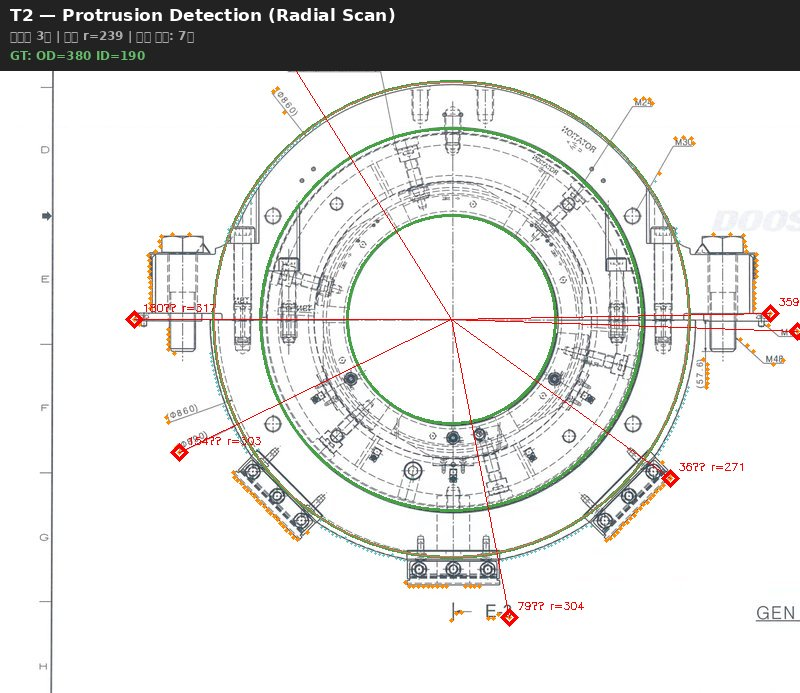
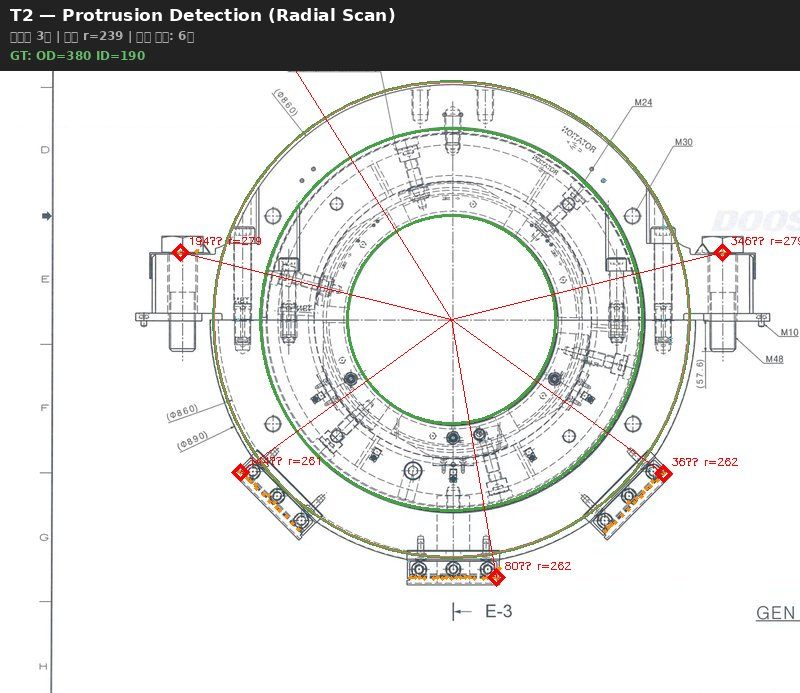
fix: 돌출부 검출을 Canny 엣지→이진화 solid 스캔으로 교체
Canny 엣지는 치수선/텍스트도 엣지로 잡아 돌출부로 오인.
이진화 + 모폴로지 열기(OPEN)로 얇은 선 제거 → 두꺼운 형상만 스캔.
연속 빈 공간 30px 이상이면 형상 끝으로 판정.
T1: 7→6개 돌출 끝점, 치수 텍스트 방향 돌출 제거.

diff --git a/blueprint-ai-bom/scripts/generate_protrusion_detect.py b/blueprint-ai-bom/scripts/generate_protrusion_detect.py
@@ -74,20 +74,30 @@ def detect_concentric_alt(gray, min_r, max_r):
     return circles
 
 
-def radial_edge_scan(gray, cx, cy, outer_r, n_angles=360, max_scan_r=None):
-    """중심에서 방사 방향으로 엣지 스캔
+def radial_solid_scan(gray, cx, cy, outer_r, n_angles=360, max_scan_r=None):
+    """중심에서 방사 방향으로 채워진 영역(solid) 스캔
+
+    Canny 엣지 대신 이진화 → 채워진 픽셀만 스캔.
+    치수 텍스트/선은 얇아서 연속 solid가 아니므로 자연 필터됨.
+
+    핵심: 외원 바깥에서 연속 solid 구간의 끝 = 돌출부 끝점.
+    치수선/텍스트는 solid 폭이 좁아(1~3px) min_thickness 필터로 제거.
 
     Returns:
-        radial_profile: [(angle_deg, max_edge_r, edge_x, edge_y), ...]
+        radial_profile: [(angle_deg, max_solid_r, x, y), ...]
         protrusions: radial_profile 중 outer_r보다 먼 것들
     """
     h, w = gray.shape
     if max_scan_r is None:
         max_scan_r = int(outer_r * 1.5)
 
-    # 엣지 맵
-    blurred = cv2.GaussianBlur(gray, (5, 5), 1.5)
-    edges = cv2.Canny(blurred, 50, 150)
+    # 이진화 (검은 부분 = 도면 형상)
+    _, binary = cv2.threshold(gray, 0, 255,
+                              cv2.THRESH_BINARY_INV + cv2.THRESH_OTSU)
+
+    # 모폴로지 열기 — 얇은 선(치수선/텍스트) 제거, 두꺼운 형상만 유지
+    kernel = cv2.getStructuringElement(cv2.MORPH_ELLIPSE, (5, 5))
+    solid = cv2.morphologyEx(binary, cv2.MORPH_OPEN, kernel)
 
     radial_profile = []
 
@@ -97,22 +107,31 @@ def radial_edge_scan(gray, cx, cy, outer_r, n_angles=360, max_scan_r=None):
         dx = np.cos(angle_rad)
         dy = np.sin(angle_rad)
 
-        # 외원 반지름 ~ max_scan_r 범위에서 엣지 스캔
-        max_edge_r = 0
-        max_edge_x, max_edge_y = cx, cy
+        # 외원 근처부터 바깥으로 스캔
+        # 연속 solid 구간의 마지막 위치 = 형상 끝
+        max_solid_r = 0
+        max_x, max_y = int(cx), int(cy)
+        consecutive_empty = 0
 
         for r_px in range(int(outer_r * 0.8), max_scan_r):
             px = int(cx + r_px * dx)
             py = int(cy + r_px * dy)
             if 0 <= px < w and 0 <= py < h:
-                if edges[py, px] > 0:
-                    max_edge_r = r_px
-                    max_edge_x = px
-                    max_edge_y = py
+                if solid[py, px] > 0:
+                    max_solid_r = r_px
+                    max_x, max_y = px, py
+                    consecutive_empty = 0
+                else:
+                    consecutive_empty += 1
+                    # 연속 빈 공간 30px 이상이면 형상 끝
+                    if consecutive_empty > 30 and max_solid_r > outer_r:
+                        break
+            else:
+                break
 
-        radial_profile.append((angle_deg, max_edge_r, max_edge_x, max_edge_y))
+        radial_profile.append((angle_deg, max_solid_r, max_x, max_y))
 
-    # 돌출부 = outer_r보다 10% 이상 먼 엣지
+    # 돌출부 = outer_r보다 5% 이상 먼 solid
     threshold = outer_r * 1.05
     protrusions = [p for p in radial_profile if p[1] > threshold]
 
@@ -232,8 +251,8 @@ def run():
         print(f"  동심원: {len(circles)}개, 외원 r={outer_r:.0f}")
         print(f"  중심: ({cx:.0f}, {cy:.0f})")
 
-        # 방사 스캔
-        profile, protrusions = radial_edge_scan(gray, cx, cy, outer_r)
+        # 방사 스캔 (solid 기반)
+        profile, protrusions = radial_solid_scan(gray, cx, cy, outer_r)
         print(f"  방사 스캔: {len(profile)}방향, 돌출 {len(protrusions)}개")
 
         # 돌출부 클러스터링 → 끝점
